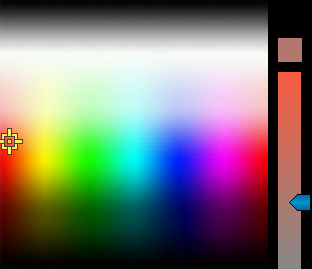
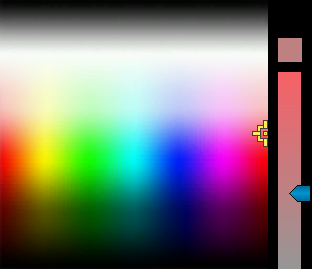
Added UI

Changed region(s): [[0.8077, 0.2677, 1.0, 0.803], [0.0, 0.4758, 0.0865, 0.5948]]

diff --git a/color_picker/color_picker.py b/color_picker/color_picker.py
@@ -171,6 +171,17 @@ def render_preview(reticle_preview: Image.Image, color_preview: Image.Image):
     return preview
 
 
+def render_color_palette(color: tuple):
+    pixel, ratio = get_cast_color_info(color)
+    reticle_preview = render_reticle(CAST_COLOR_IMAGE, pixel)
+    gradient = generate_gradient(lookup_pixel(CAST_COLOR_IMAGE, pixel), get_average_gray(color), (23, 197))
+    gradient_bar = render_gradient(gradient, (23, 197))
+    slider = render_slider(gradient_bar, ratio)
+    color_preview = render_color(gradient[int((1 - ratio) * len(gradient))], slider, 23)
+    preview = render_preview(reticle_preview, color_preview)
+    return preview
+
+
 def get_closest_color(colors: Sequence, target_color: tuple) -> int:
     """
     Gets the index of closest color from a sequence.
@@ -255,32 +266,7 @@ def get_cast_color_info(color: tuple) -> tuple:
 
 
 if __name__ == '__main__':
-    color = (181, 122, 106)
-    pixel, ratio = get_cast_color_info(color)
-    reticle_preview = render_reticle("../assets/cast.png", pixel)
-    gradient = generate_gradient(lookup_pixel(CAST_COLOR_IMAGE, pixel), get_average_gray(color), (23, 197))
-    gradient_bar = render_gradient(gradient, (23, 197))
-    slider = render_slider(gradient_bar, ratio)
-    color_preview = render_color(gradient[int((1 - ratio) * len(gradient))], slider, 23)
-    preview = render_preview(reticle_preview, color_preview)
+    color = tuple(int(x.strip()) for x in input("Please enter a color: ").split(','))
+    preview = render_color_palette(color)
     preview.show()
     preview.save("../samples/preview.png")
-
-    """
-    # Nagatoro skin color lookup
-    nagatoro_skin_color = (233, 183, 146)
-    pixel = search('../assets/human-newman.png', nagatoro_skin_color)
-    nagatoro_skin_sample = render_reticle('../assets/human-newman.png', pixel)
-    nagatoro_skin_sample.show()
-    nagatoro_skin_sample.save('../samples/nagatoro_skin.png')
-
-    # Nagatoro iris color lookup
-    nagatoro_iris_color = (152, 90, 70)
-    h, s, v = hsv(*nagatoro_iris_color)
-    print(f"Hue: {h}\nSaturation: {s}\nValue: {v}")
-    nagatoro_iris_color = rgb(h, 1, v)
-    pixel = search('../assets/cast.png', nagatoro_iris_color)
-    nagatoro_iris_sample = render_reticle("../assets/cast.png", pixel)
-    nagatoro_iris_sample.show()
-    nagatoro_iris_sample.save('../samples/nagatoro_iris.png')
-    """
